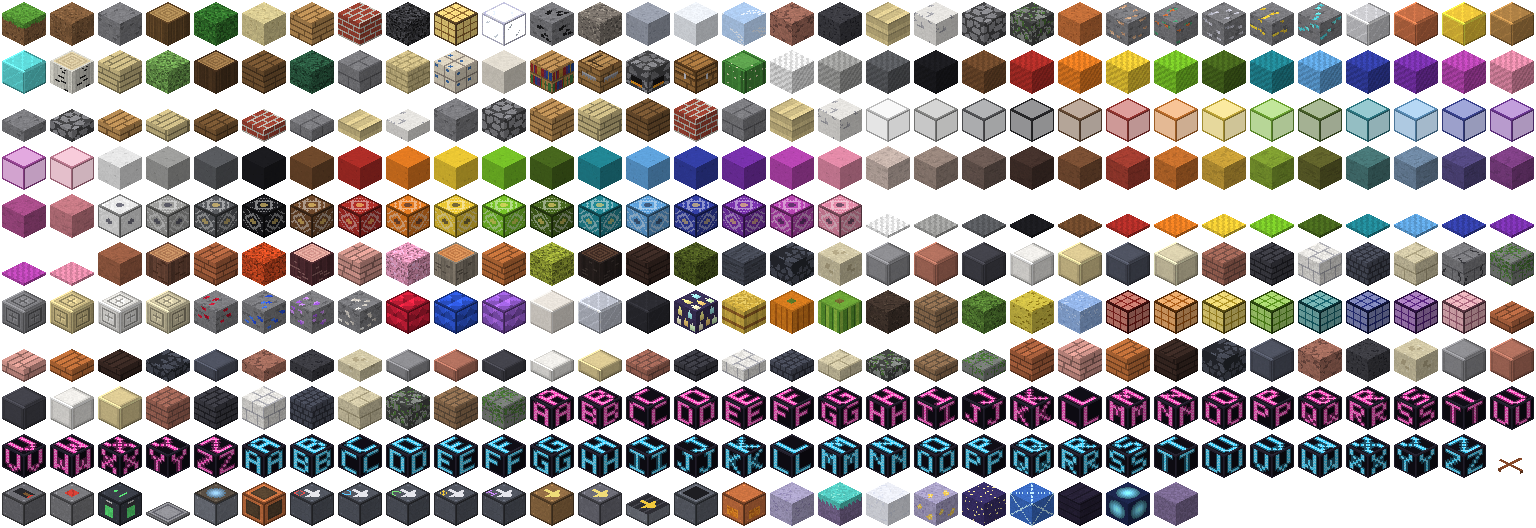
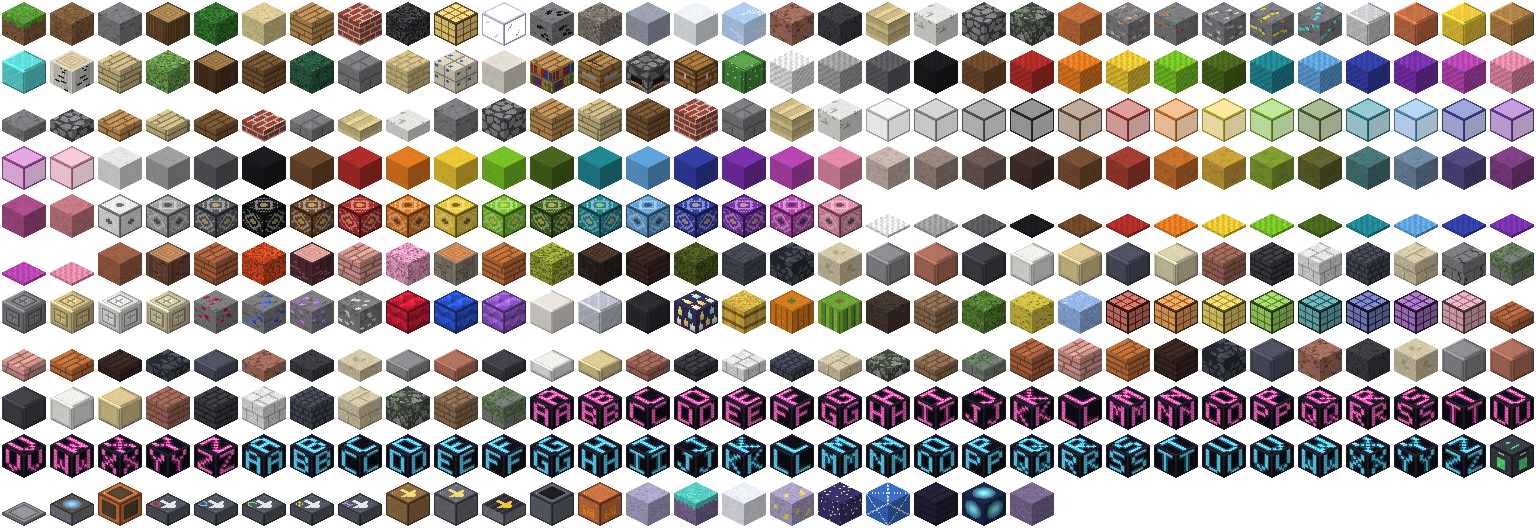
Machines you can tell apart, and a hint saying what each does
- Wire is a thin line with an arm towards every machine, door or wire next
  to it (one step up or down too), glowing when powered: you see where
  the power goes. Switches are a base with a handle that leans one way
  off and the other way on; push buttons are a small button on a base;
  gates and the light sensor are flat chips. These small parts need
  ground, have no collision and fall when their block is broken.
- Aiming at a machine shows a line under its name saying what it does
  (switch: tap to turn power on or off; AND: power out when both sides
  are powered; ...), in Arabic and English.
- Factory labels decide which way a library building faces (their text
  reads from +z), so OR / XOR / NOT / WAIT read properly.

Claude-Session: https://claude.ai/code/session_016rzuTQKFoJD2sscWN2nTLT

Changed region(s): [[0.0, 0.9091, 0.7812, 1.0], [0.9688, 0.8182, 1.0, 0.9091]]

diff --git a/blocks.py b/blocks.py
@@ -360,23 +360,25 @@ def _logic(id_, name, tiles, kind, shape=CUBE, creative=True, drop="self", **ext
     return id_
 
 
-_logic(1700, "copper wire", "wire_off", "wire", shape=CARPET, solid=False, hardness=0.0, tool=None, on=False)
-_logic(1701, "copper wire", "wire_on", "wire", shape=CARPET, solid=False, hardness=0.0, tool=None, on=True,
+_logic(1700, "copper wire", "wire_off", "wire", shape="wire", solid=False, hardness=0.0, tool=None, on=False)
+_logic(1701, "copper wire", "wire_on", "wire", shape="wire", solid=False, hardness=0.0, tool=None, on=True,
        creative=False, drop=1700, emit=3)
-_logic(1702, "switch", ("switch_off", "switch_side", "switch_side"), "switch", on=False, hardness=0.6)
-_logic(1703, "switch", ("switch_on", "switch_side", "switch_side"), "switch", on=True, creative=False, drop=1702,
+_logic(1702, "switch", ("switch_off", "switch_side", "switch_side"), "switch", shape="lever", solid=False, on=False,
        hardness=0.6)
-_logic(1704, "push button", ("button_top", "button_side", "button_side"), "button", hardness=0.6)
+_logic(1703, "switch", ("switch_on", "switch_side", "switch_side"), "switch", shape="lever", solid=False, on=True,
+       creative=False, drop=1702, hardness=0.6)
+_logic(1704, "push button", ("button_top", "button_side", "button_side"), "button", shape="button", solid=False,
+       hardness=0.6)
 _logic(1705, "power cell", ("power_cell_top", "power_cell", "power_cell_top"), "cell", hardness=1.5, emit=6)
 _logic(1706, "pressure plate", "pressure_plate", "plate", shape=CARPET, solid=False, hardness=0.5)
-_logic(1707, "light sensor", ("light_sensor", "machine_side", "machine_side"), "sensor", hardness=0.8)
+_logic(1707, "light sensor", ("light_sensor", "machine_side", "machine_side"), "sensor", shape=SLAB, hardness=0.8)
 _logic(1708, "powered lamp", "powered_lamp_off", "lamp", on=False, hardness=0.4)
 _logic(1709, "powered lamp", "powered_lamp_on", "lamp", on=True, creative=False, drop=1708, emit=15, hardness=0.4)
 GATES = ["not", "and", "or", "xor", "delay"]
 for _g, _gate in enumerate(GATES):
     for _f in range(4):
         _logic(1710 + _g * 4 + _f, f"{_gate} gate", (f"gate_{_gate}_{_f}", "gate_side", "gate_side"), _gate,
-               facing=_f, creative=_f == 0, drop=1710 + _g * 4, hardness=0.6)
+               shape=SLAB, facing=_f, creative=_f == 0, drop=1710 + _g * 4, hardness=0.6)   # a flat chip
 for _f in range(6):
     for _base, _m in ((1730, "pusher"), (1736, "breaker")):
         _logic(_base + _f, _m, (f"{_m}_top_{_f}", f"{_m}_side_{_f}", f"{_m}_bottom_{_f}"), _m, facing=_f,
@@ -419,7 +421,7 @@ NON_SOLID = {0} | {i for i, d in BLOCK_DEFS.items() if not d["solid"]}
 LIGHT_EMIT = {i: d["emit"] for i, d in BLOCK_DEFS.items() if d["emit"]}
 UNBREAKABLE = {i for i, d in BLOCK_DEFS.items() if d["hardness"] < 0}
 LEAVES = {i for i, d in BLOCK_DEFS.items() if d.get("leaves")}
-PLANTS_NEED_SOIL = {i for i, d in BLOCK_DEFS.items() if d["shape"] in (CROSS, CARPET)}   # fall without ground
+PLANTS_NEED_SOIL = {i for i, d in BLOCK_DEFS.items() if d["shape"] in (CROSS, CARPET, "wire", "lever", "button")}   # fall without ground
 SHAPED = {i for i, d in BLOCK_DEFS.items() if d["shape"] != CUBE}
 
 

diff --git a/i18n.py b/i18n.py
@@ -193,6 +193,23 @@ UI = {
     "btn_mine": ("Break", "كسر"),
     "mode_break": ("Break mode: tap or hold to break", "وضع الكسر: اكبس أو اضغط مطوّل لتكسّر"),
     "mode_build": ("Build mode", "وضع البناء"),
+    "hint_wire": ("Carries power from a source to machines next to it", "بيوصّل الكهربا من المصدر للمكنات يلي جنبه"),
+    "hint_switch": ("Tap: power on / off", "اكبس: بتشغّل أو بتطفي الكهربا"),
+    "hint_button": ("Tap: power for a moment", "اكبس: بيعطي كهربا لثانية"),
+    "hint_cell": ("Always gives power", "بيعطي كهربا دايماً"),
+    "hint_plate": ("Gives power while someone stands on it", "بيعطي كهربا لما حدا يوقف عليه"),
+    "hint_sensor": ("Gives power in daylight", "بيعطي كهربا بالنهار"),
+    "hint_lamp": ("Lights up when powered", "بيضوي لما توصله كهربا"),
+    "hint_not": ("NOT: power out when no power comes in", "عكس: بيطلّع كهربا إذا ما وصله شي"),
+    "hint_and": ("AND: power out when both sides are powered", "و: بيطلّع كهربا إذا الجهتين فيهم كهربا"),
+    "hint_or": ("OR: power out when either side is powered", "أو: بيطلّع كهربا إذا وحدة من الجهتين فيها"),
+    "hint_xor": ("XOR: power out when exactly one side is powered", "يا هيك يا هيك: بيطلّع كهربا إذا جهة وحدة بس فيها"),
+    "hint_delay": ("Passes power on a little later", "بيمرّر الكهربا بعد شوي"),
+    "hint_pusher": ("Pushes the blocks in front of it when powered", "بيدفش البلوكات يلي قدامه لما توصله كهربا"),
+    "hint_breaker": ("Breaks the block in front of it when powered", "بيكسر البلوك يلي قدامه لما توصله كهربا"),
+    "hint_conveyor": ("Moves items and players along the arrow", "بيمشّي الأغراض واللاعبين مع السهم"),
+    "hint_collector": ("Picks up items and puts them in the chest below", "بيلم الأغراض وبيحطها بالصندوق يلي تحته"),
+    "hint_smelter": ("Smelts what comes from above, sends it down", "بيصهر يلي بينزله من فوق وبينزّله لتحت"),
     "cause_void": ("You fell off the sky islands.", "وقعت عن جزر السما."),
     "wind_saved": ("The wind carried you back to the island.", "الريح رجّعتك عالجزيرة."),
     "cause_storm": ("The Storm Ray got you.", "رعّاد العاصفة قتلك."),
